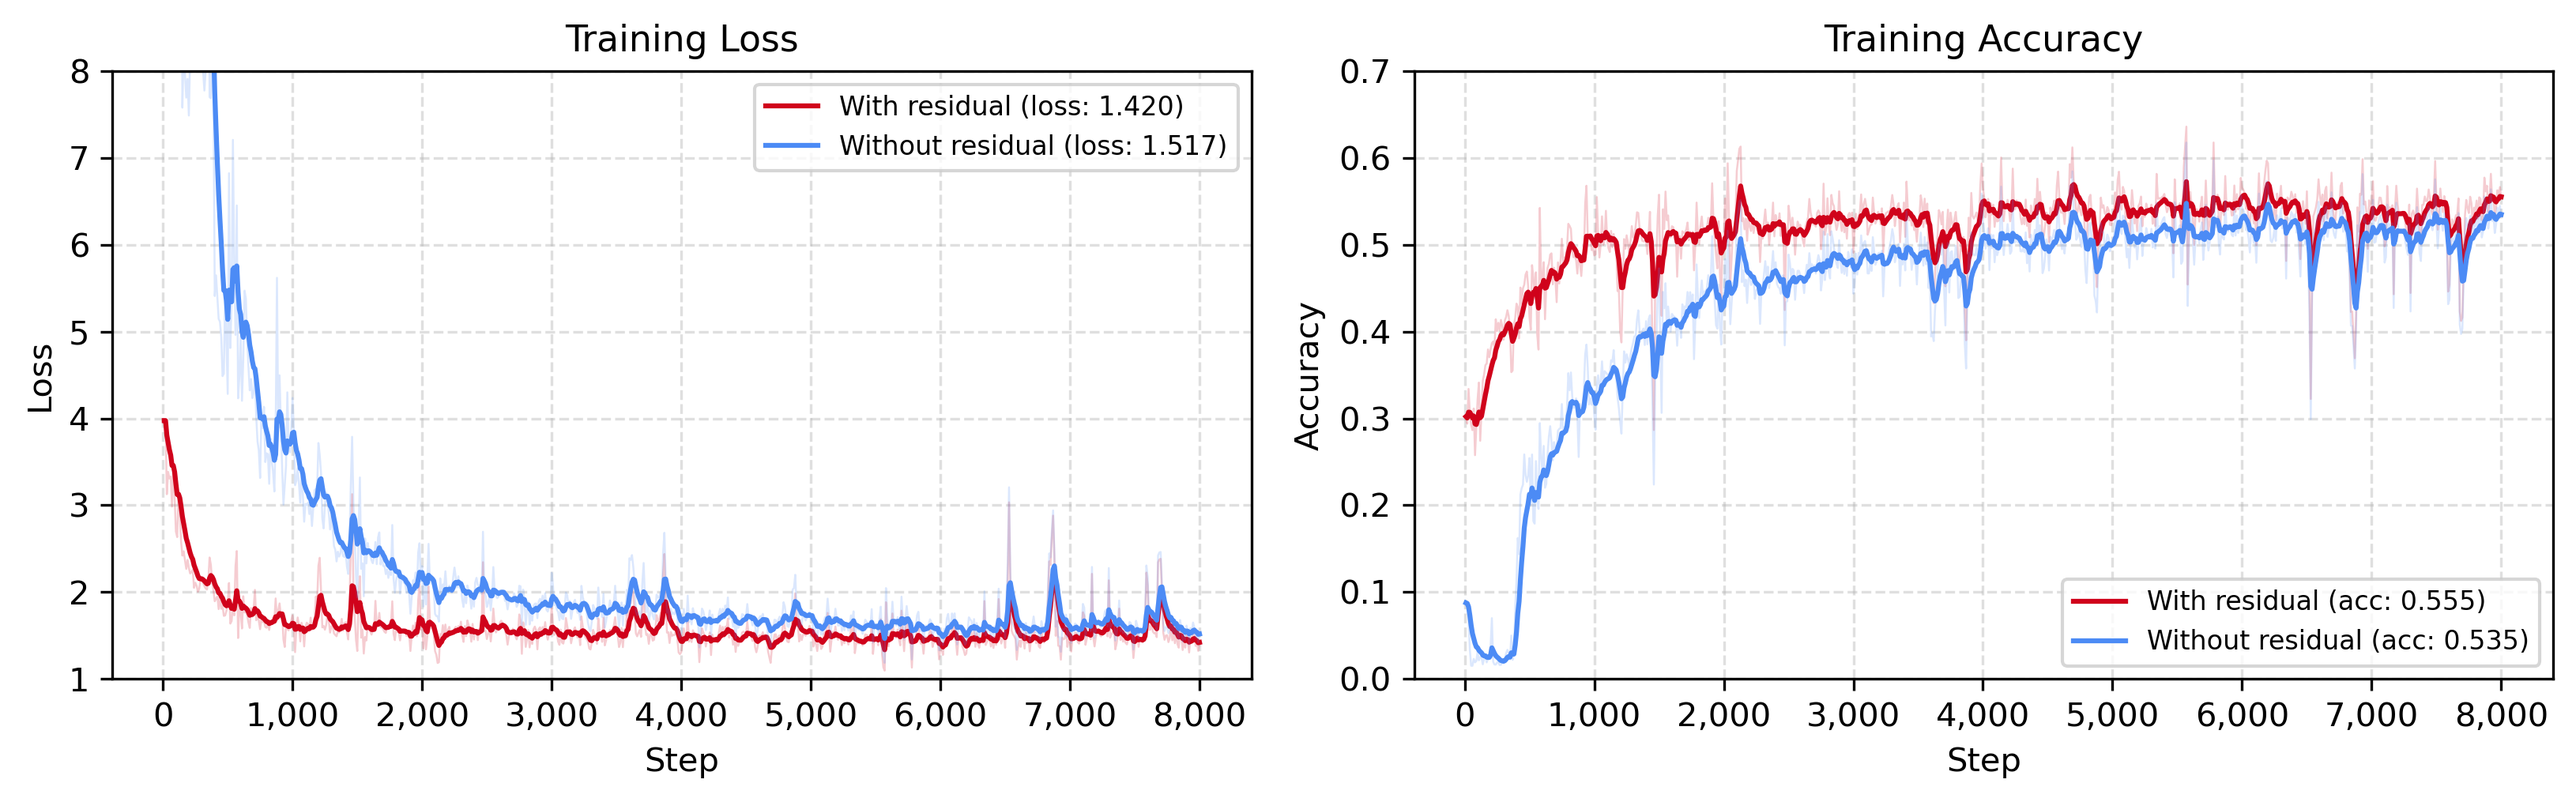
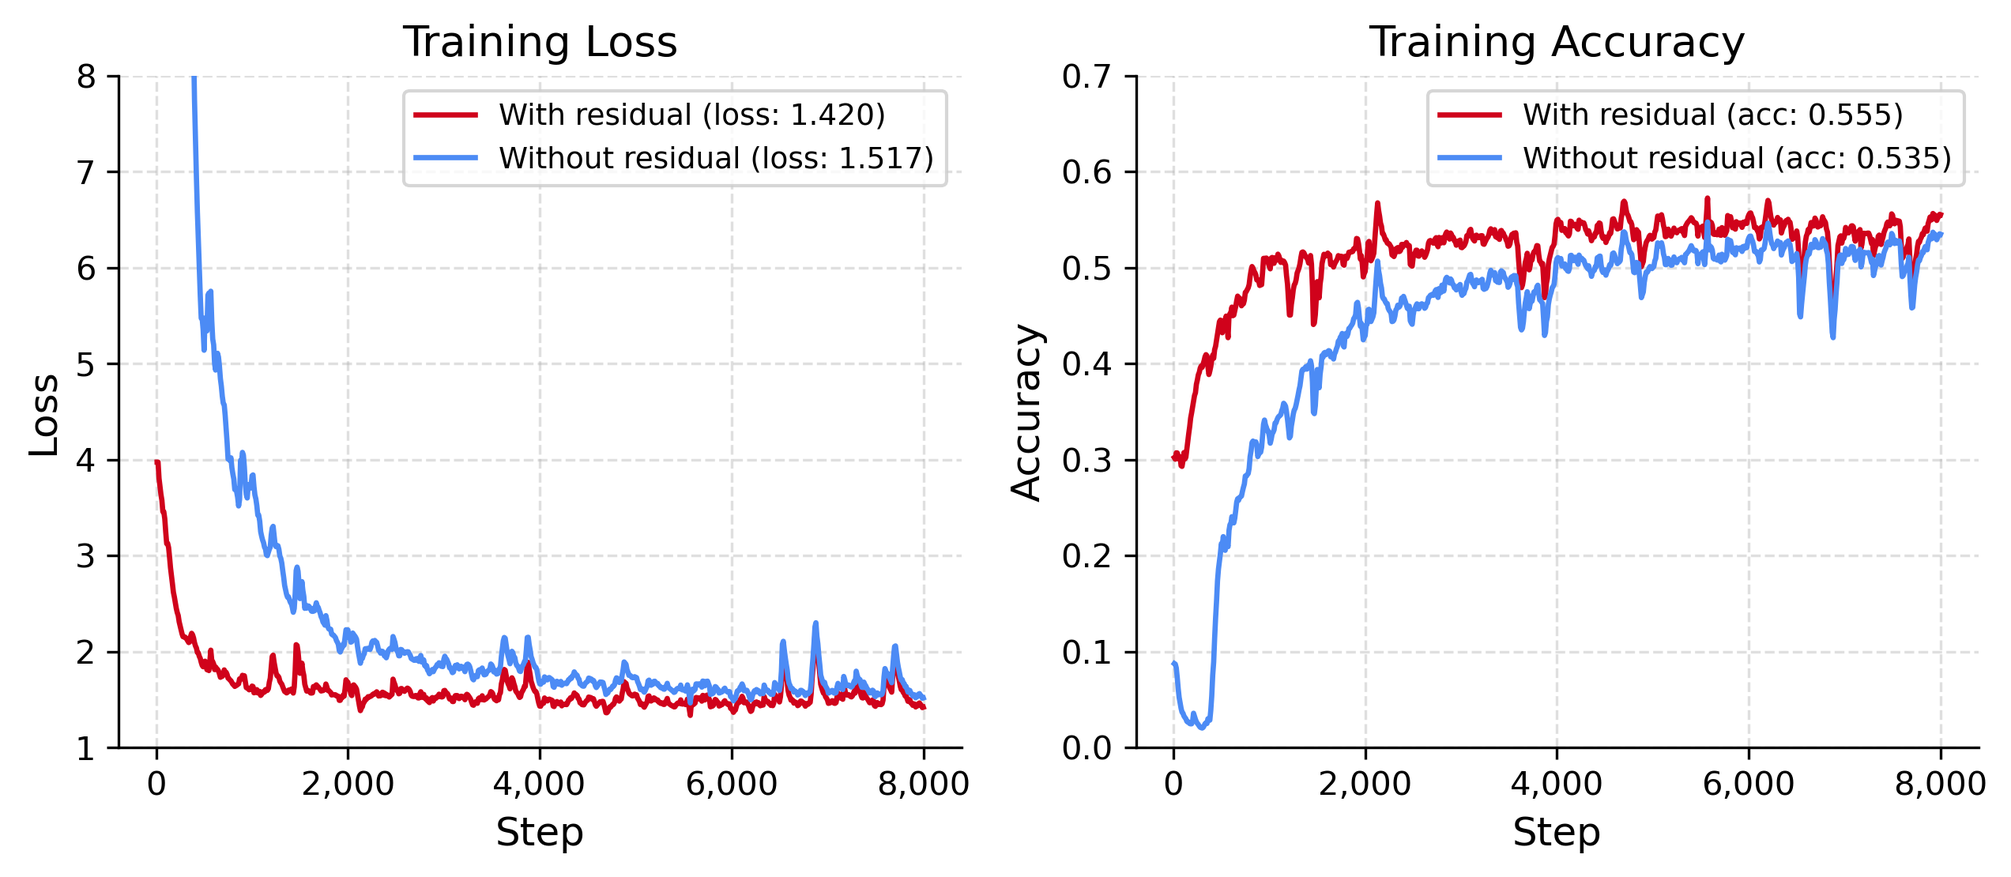
style(plot): refine residual ablation figure

diff --git a/plot/plot_residual_ablation.py b/plot/plot_residual_ablation.py
@@ -46,33 +46,35 @@ def plot_metric(ax, df, metric):
         final_value = smoothed.dropna().iloc[-1]
         metric_label = "loss" if metric == "loss" else "acc"
 
-        ax.plot(steps, values, color=color, linewidth=0.6, alpha=0.2)
         ax.plot(
             steps,
             smoothed,
             color=color,
-            linewidth=1.5,
+            linewidth=1.6,
             label=f"{label} ({metric_label}: {final_value:.3f})",
         )
 
     if metric == "loss":
-        ax.set_title("Training Loss", fontsize=11)
-        ax.set_ylabel("Loss", fontsize=10)
+        ax.set_title("Training Loss", fontsize=13)
+        ax.set_ylabel("Loss", fontsize=12)
         ax.set_ylim(1.0, 8.0)
     else:
-        ax.set_title("Training Accuracy", fontsize=11)
-        ax.set_ylabel("Accuracy", fontsize=10)
+        ax.set_title("Training Accuracy", fontsize=13)
+        ax.set_ylabel("Accuracy", fontsize=12)
         ax.set_ylim(0.0, 0.7)
 
-    ax.set_xlabel("Step", fontsize=10)
-    ax.legend(fontsize=8)
+    ax.set_xlabel("Step", fontsize=12)
+    ax.tick_params(axis="both", labelsize=10)
+    ax.legend(fontsize=9)
     ax.xaxis.set_major_formatter(
         ticker.FuncFormatter(lambda x, _: f"{int(x):,}")
     )
     ax.grid(True, linestyle="--", alpha=0.4)
+    ax.spines["top"].set_visible(False)
+    ax.spines["right"].set_visible(False)
 
 
-fig, (ax_loss, ax_acc) = plt.subplots(1, 2, figsize=(11, 3.5))
+fig, (ax_loss, ax_acc) = plt.subplots(1, 2, figsize=(8.6, 3.8))
 
 plot_metric(ax_loss, DATASETS["loss"], "loss")
 plot_metric(ax_acc, DATASETS["acc"], "acc")
